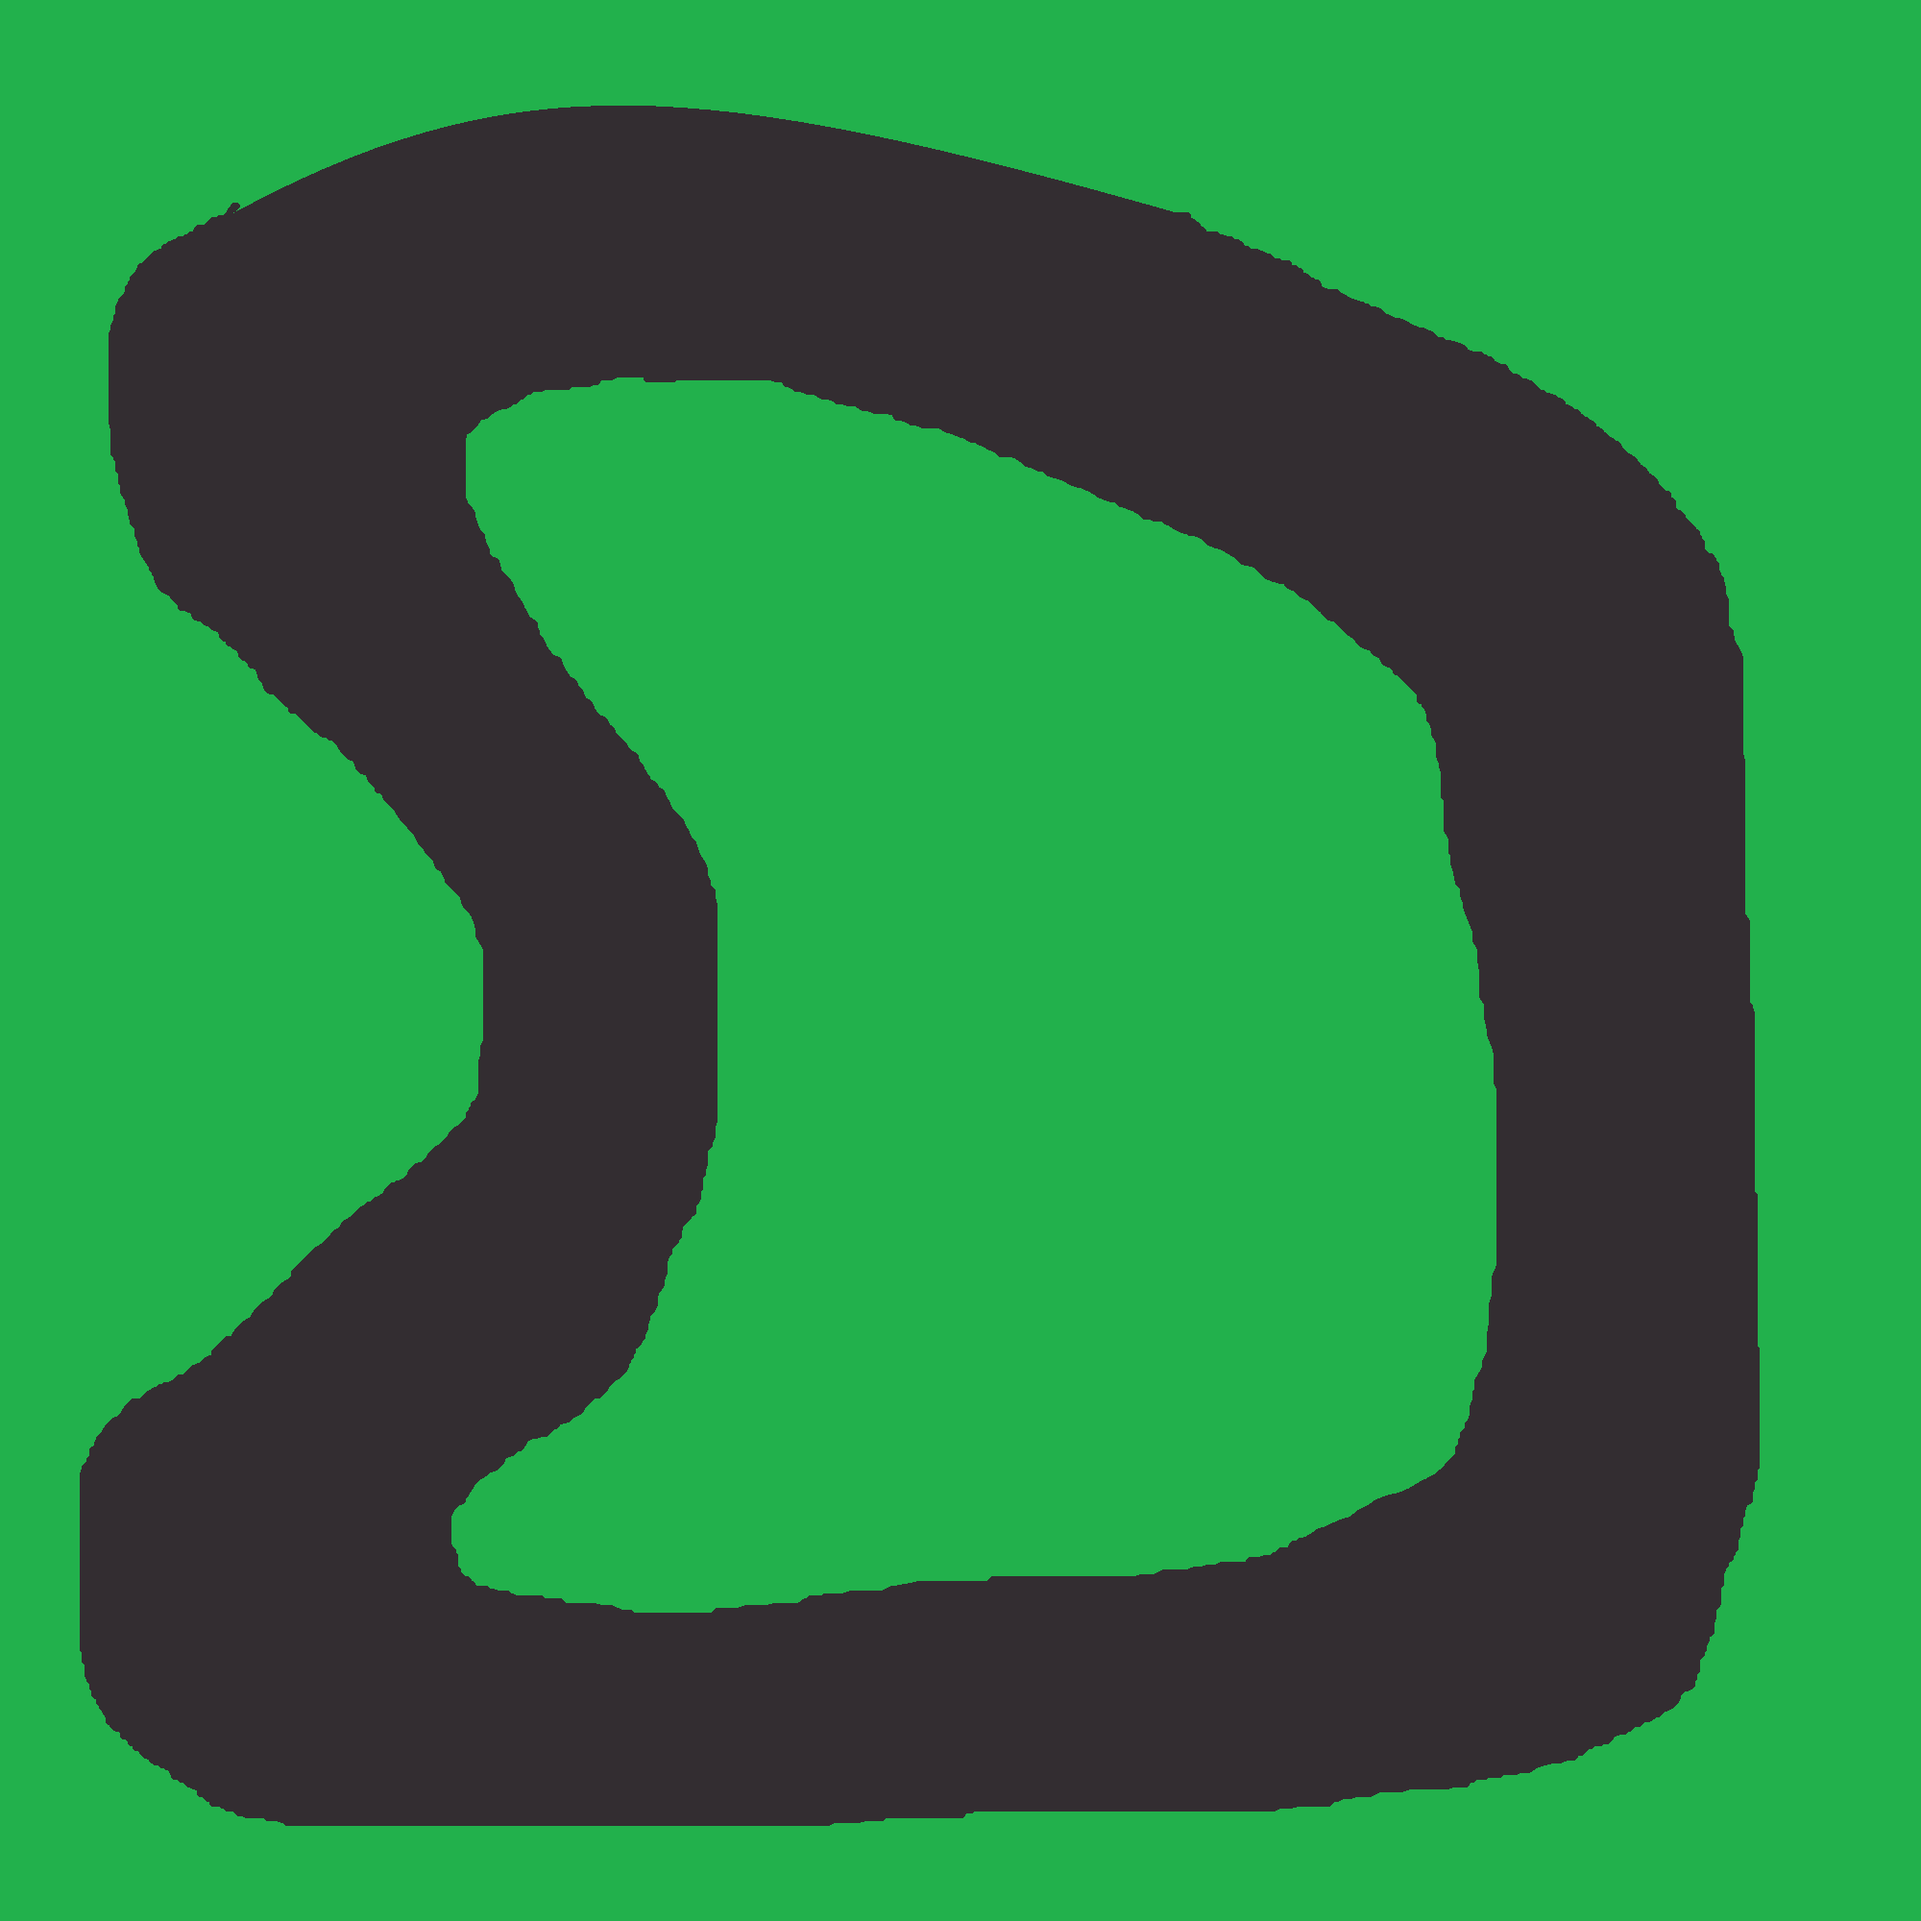
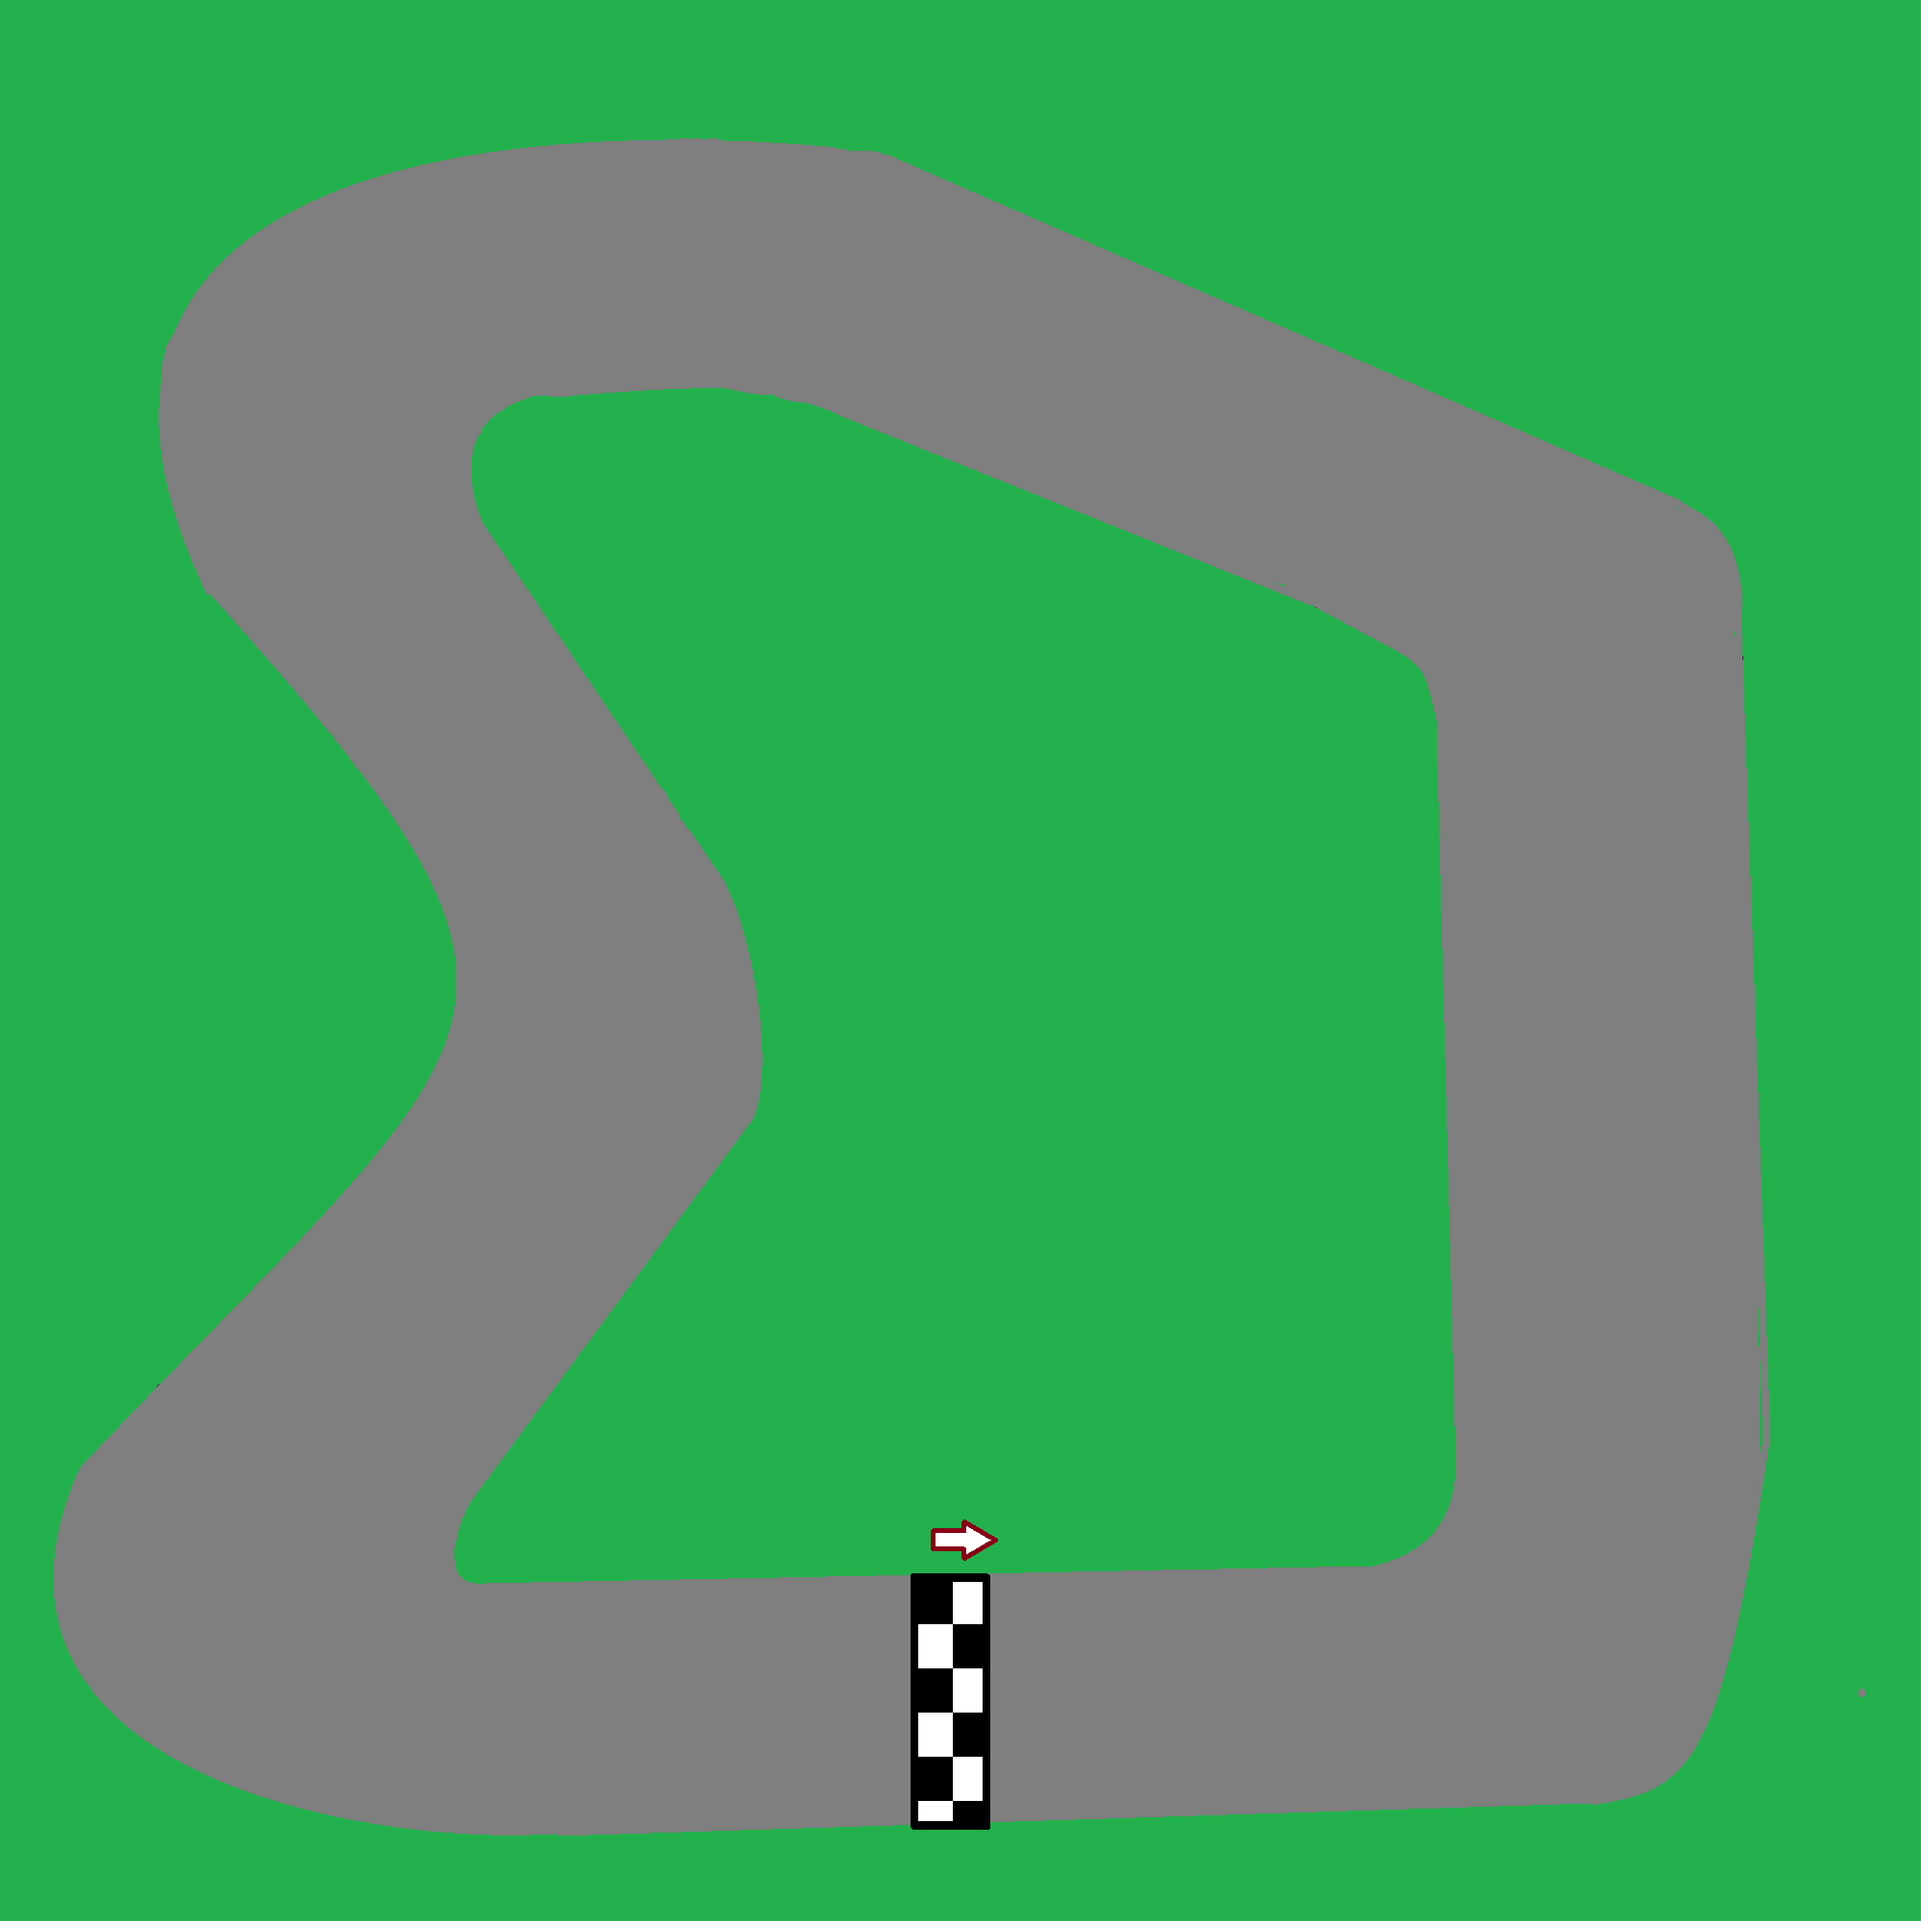
Big changes.

diff --git a/main.py b/main.py
@@ -1,7 +1,7 @@
 import pygame
 import sys
 from car import Car
-from settings import SCREEN_RES, GAME_BG, FPS
+from settings import SCREEN_RES, GAME_BG, FPS, TRACKS
 
 pygame.init()
 
@@ -9,8 +9,11 @@ screen = pygame.display.set_mode(SCREEN_RES)
 pygame.display.set_caption("R.C. Python Game")
 clock = pygame.time.Clock()
 # Load Car and Track
-player_car = Car(SCREEN_RES[0] // 2, SCREEN_RES[1] // 2, "car_1.png")
-track = pygame.image.load("track_1.png").convert()
+start_x, start_y = TRACKS["track_1"]["start_pos"] 
+player_car = Car(start_x, start_y, "car_1.png") 
+player_car.angle = TRACKS["track_1"]["start_angle"]
+current_track = TRACKS["track_1"]
+track = pygame.image.load(current_track["image"]).convert()
 track_rect = track.get_rect()
 
 # Camera Function

diff --git a/settings.py b/settings.py
@@ -4,3 +4,15 @@ SCREEN_HEIGHT = 600
 SCREEN_RES = (SCREEN_WIDTH, SCREEN_HEIGHT)
 GAME_BG = (30, 120, 30)
 FPS = 60
+TRACKS = {
+    "track_1": {
+        "image": "track_1.png",
+        "start_pos": (840, 1817),
+        "start_angle": 0  
+    },
+    "track_2": {
+        "image": "track_2.png",
+        "start_pos": (1200, 300),
+        "start_angle": 45
+    }
+}
